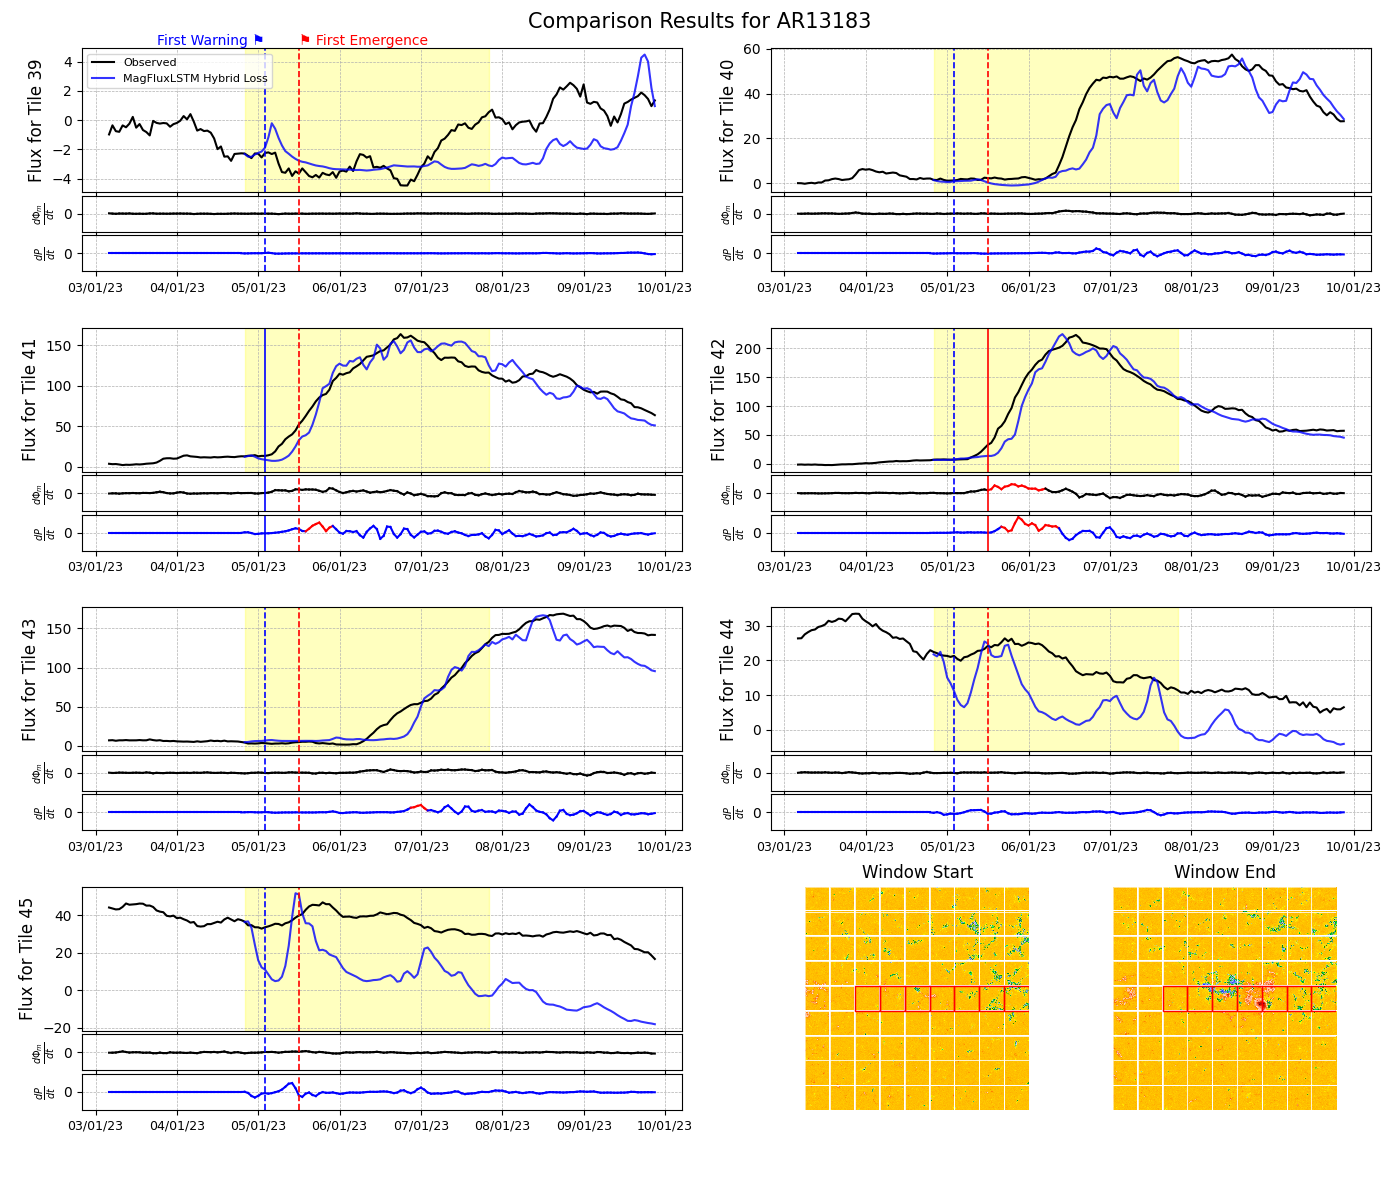
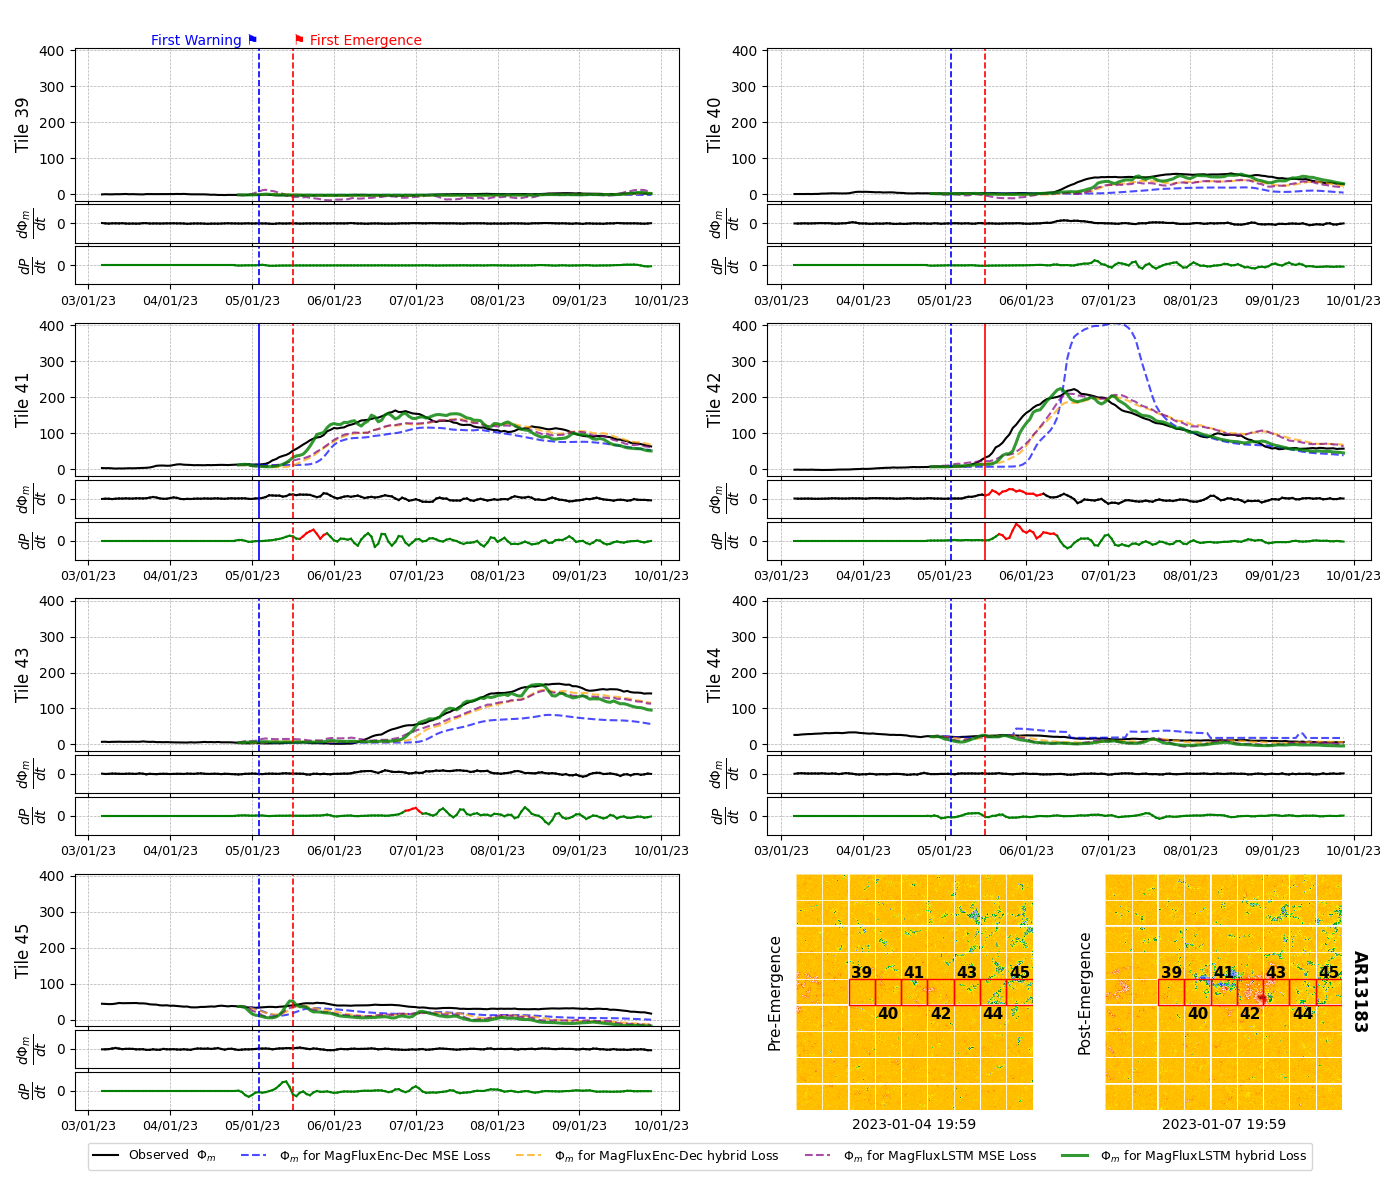
end

Changed region(s): [[0.0, 0.0, 0.9829, 0.9867]]

diff --git a/lstm/test_models_denormalized.py b/lstm/test_models_denormalized.py
@@ -15,7 +15,7 @@ from functions import (
 from functions import VanillaLSTM
 from functions import LSTM
 
-import matplotlib.patches as patches 
+import matplotlib.patches as patches
 import matplotlib.image as mpimg
 import matplotlib.dates as mdates
 import matplotlib.pyplot as plt
@@ -197,9 +197,7 @@ def eval_AR_emergence_with_plots(
                 - future : last_known_idx - p_params["num_pred"] - future,
             ]
 
-            d_true = np.gradient(
-                np.concatenate((mag_before_pred, true_p))
-            )
+            d_true = np.gradient(np.concatenate((mag_before_pred, true_p)))
             indicator_true = emergence_indication(d_true, threshold, sust_time)
 
             for idx, indic in enumerate(indicator_true):
@@ -225,7 +223,9 @@ def eval_AR_emergence_with_plots(
                     break
         print(firstTimePred)
         firstTimePred -= 12
-
+        maxObserved = -float("inf")
+        minObserved = float("inf")
+        axArray = []
         # --- 2. PLOTTING LOOP ---
         for i in range(7):
             print()
@@ -292,9 +292,11 @@ def eval_AR_emergence_with_plots(
                 time_cut_mpl,
                 true_plot,
                 color="black",
-                label="Observed",
+                label="Observed  $\Phi_m$",
                 linewidth=1.5,
             )
+            maxObserved = max(maxObserved, np.max(true_plot))
+            minObserved = min(minObserved, np.min(true_plot))
 
             # Overlay Predictions
             colors = ["blue", "orange", "purple", "green"]
@@ -334,25 +336,27 @@ def eval_AR_emergence_with_plots(
                     pad = np.full((len(time_cut_mpl) - len(plot_data),), np.nan)
                     plot_data = np.concatenate((plot_data, pad))
 
+                maxObserved = max(np.max(pred_recal_denorm), maxObserved)
+                minObserved = min(np.min(pred_recal_denorm), minObserved)
                 ax0.plot(
                     time_cut_mpl,
                     plot_data,
                     color=colors[m_idx % len(colors)],
-                    label=m_data["graphName"],  # Simple label
+                    label=" $\Phi_m$ for " + m_data["graphName"],  # Simple label
                     linestyle="-" if m_idx == len(loaded_models) - 1 else "--",
-                    alpha=0.8 if m_idx == len(loaded_models) - 1 else 0.3,
+                    alpha=0.8 if m_idx == len(loaded_models) - 1 else 0.7,
+                    linewidth=2.2 if m_idx == len(loaded_models) - 1 else 1.5,
                 )
-
-            # Formatting
-            ax0.axvspan(
-                time_cut_mpl[window_start],
-                time_cut_mpl[window_end],
-                color="yellow",
-                alpha=0.25,
+            # Metrics (Primary)
+            metrics = calculate_metrics(
+                true_plot[len(nan_array):],
+                pred_recal_denorm,
             )
-            if i == 0:
-                ax0.legend(loc="upper left", fontsize=8)
-            ax0.set_ylabel(f"Flux for Tile {starting_tile + i + 2}", fontsize=12)
+            all_metrics.append(metrics)
+            print(f"RMSE (Primary): {metrics[2]}")
+            # Formatting
+            ax0.set_ylabel(f"Tile {starting_tile + i + 2}", fontsize=12)
+            ax0.set_ylim([minObserved, maxObserved])
             ax0.grid(True, which="both", axis="both", linestyle="--", linewidth=0.5)
             ax0.tick_params(axis="x", which="both", labelbottom=False)
             ax0.xaxis_date()
@@ -373,31 +377,30 @@ def eval_AR_emergence_with_plots(
                 linewidth=1.2,
             )
 
-            if i == 0:
-                ax0.text(
-                    x_time_pred,
-                    ax0.get_ylim()[1],
-                    "First Warning ⚑",
-                    color="blue",
-                    fontsize=10,
-                    ha="right",
-                    va="bottom",
-                )
-                ax0.text(
-                    x_time_true,
-                    ax0.get_ylim()[1],
-                    "⚑ First Emergence",
-                    color="red",
-                    fontsize=10,
-                    ha="left",
-                    va="bottom",
-                )
+            # if i == 0:
+            #     ax0.text(
+            #         x_time_pred,
+            #         ax0.get_ylim()[1],
+            #         "First Warning ⚑",
+            #         color="blue",
+            #         fontsize=10,
+            #         ha="right",
+            #         va="bottom",
+            #     )
+            #     ax0.text(
+            #         x_time_true,
+            #         ax0.get_ylim()[1],
+            #         "⚑ First Emergence",
+            #         color="red",
+            #         fontsize=10,
+            #         ha="left",
+            #         va="bottom",
+            #     )
+            axArray.append(ax0)
 
             # --- AX1: dObs/dt ---
             ax1 = plt.subplot(gs[1])
-            d_true = np.gradient(
-                np.concatenate((mag_before_pred, true))
-            )
+            d_true = np.gradient(np.concatenate((mag_before_pred, true)))
             indicator_true = emergence_indication(d_true, threshold, sust_time)
 
             first = True
@@ -419,7 +422,7 @@ def eval_AR_emergence_with_plots(
             ax1.set_ylim([-0.05, 0.05])
             ax1.set_yticks([0])
             ax1.grid(True, linestyle="--", linewidth=0.5)
-            ax1.set_ylabel(r"$\frac{d\Phi_m}{dt}$")
+            ax1.set_ylabel(r"$\frac{d \Phi_m}{dt}$", fontsize=14)
             ax1.axvline(
                 x=x_time_pred,
                 color="blue",
@@ -498,7 +501,7 @@ def eval_AR_emergence_with_plots(
                 ax_pred.set_ylim([-0.05, 0.05])
                 ax_pred.set_yticks([0])
                 ax_pred.grid(True, linestyle="--", linewidth=0.5)
-                ax_pred.set_ylabel(r"$\frac{d P}{dt}$ ")
+                ax_pred.set_ylabel(r"$\frac{d P}{dt}$", fontsize=14)
                 ax_pred.axvline(
                     x=x_time_true,
                     color="red",
@@ -512,13 +515,7 @@ def eval_AR_emergence_with_plots(
                     linewidth=1.2,
                 )
 
-            # Metrics (Primary)
-            metrics = calculate_metrics(
-                true_plot[window_start:window_end],
-                plot_data[window_start:window_end],
-            )
-            all_metrics.append(metrics)
-            print(f"RMSE (Primary): {metrics[2]}")
+            
 
             # Table (Primary)
             to_append = f"Tile {starting_tile + i + 1} \n"
@@ -537,7 +534,28 @@ def eval_AR_emergence_with_plots(
                     to_append += "N/A"
             AR_emergences.append(to_append)
 
-        # Table data cleanup
+        for ax in axArray:
+            ax.set_ylim([minObserved, maxObserved])
+        ax0 = axArray[0]
+        leftAligned = x_time_pred < x_time_true
+        ax0.text(
+            x_time_pred,
+            ax0.get_ylim()[1],
+            "First Warning ⚑",
+            color="blue",
+            fontsize=10,
+            ha="right" if leftAligned else "left",
+            va="bottom",
+        )
+        ax0.text(
+            x_time_true,
+            ax0.get_ylim()[1],
+            "⚑ First Emergence",
+            color="red",
+            fontsize=10,
+            ha="left" if leftAligned else "right",
+            va="bottom",
+        )
         diff_final = mdates.num2date(x_time_true) - mdates.num2date(x_time_pred)
         hours_final = (diff_final.days * 24 * 60 + (diff_final.seconds / 60)) // 60
         AR_pred.append(hours_final)
@@ -554,8 +572,18 @@ def eval_AR_emergence_with_plots(
         try:
             img1 = mpimg.imread(f"lstm/imgs/AR{test_AR}s.png")
             img2 = mpimg.imread(f"lstm/imgs/AR{test_AR}e.png")
-            for ax, img, title in zip(
-                [ax_image1, ax_image2], [img1, img2], ["Window Start", "Window End"]
+            # Get timestamps for window start and end
+            start_time = mdates.num2date(time_cut_mpl[window_start]).strftime(
+                "%Y-%m-%d %H:%M"
+            )
+            end_time = mdates.num2date(time_cut_mpl[window_end]).strftime(
+                "%Y-%m-%d %H:%M"
+            )
+            for ax, img, title, is_start in zip(
+                [ax_image1, ax_image2],
+                [img1, img2],
+                [start_time, end_time],
+                [True, False],
             ):
                 ax.imshow(
                     img,
@@ -566,6 +594,7 @@ def eval_AR_emergence_with_plots(
                 )
 
                 # --- draw 9x9 tile grid (1x1 squares from 0..9 in x and y) ---
+                tile_num = starting_tile + i + 2
                 for ix in range(9):  # columns
                     for iy in range(9):  # rows
                         rect = patches.Rectangle(
@@ -579,7 +608,49 @@ def eval_AR_emergence_with_plots(
                         )
                         ax.add_patch(rect)
 
-                ax.set_title(title, fontsize=12)
+                # Place time at bottom of image
+                ax.text(
+                    4.5, -0.3, title, ha="center", va="top", fontsize=10, color="black"
+                )
+
+                # Place AR number vertically on left side of start image
+                if is_start:
+                    # Add "pre-emergence" label to left of first image
+                    ax.text(
+                        -0.5,
+                        4.5,
+                        "Pre-Emergence",
+                        ha="right",
+                        va="center",
+                        fontsize=11,
+                        color="black",
+                        rotation=90,
+                    )
+                else:
+                    # Add "post-emergence" label to left of second image
+                    ax.text(
+                        -0.5,
+                        4.5,
+                        "Post-Emergence",
+                        ha="right",
+                        va="center",
+                        fontsize=11,
+                        color="black",
+                        rotation=90
+                    )
+                    # Add time text to right of second image
+                    ax.text(
+                        9.3,
+                        4.5,
+                        f"AR{test_AR}",
+                        ha="left",
+                        va="center",
+                        fontsize=12,
+                        rotation=-90,
+                        color="black",
+                        weight="bold",
+                    )
+
                 ax.axis("off")
                 for tile_num in range(starting_tile, starting_tile + 7):
                     highlight_tile(ax, tile_num + 2)
@@ -595,14 +666,18 @@ def eval_AR_emergence_with_plots(
             round(means[4], 3),
         )
         print(mae_string)
-
+        # Add figure-level legend at the bottom
+        handles, labels = ax0.get_legend_handles_labels()
+        fig.legend(
+            handles,
+            labels,
+            loc="lower center",
+            bbox_to_anchor=(0.5, 0.02),
+            ncol=5,
+            fontsize=9,
+        )
         plt.tight_layout()
         plt.subplots_adjust(top=0.96, bottom=0.075)
-        plt.suptitle(
-            "Comparison Results for AR{}".format(test_AR),
-            y=0.99,
-            fontsize=15
-        )
 
         save_path = RESULTS_PATH + "/AR{}_comparison_denormalized.png".format(test_AR)
         plt.savefig(save_path)
@@ -629,11 +704,11 @@ if __name__ == "__main__":
     # Format: ("Vanilla" or "Regular", "filename.pth")
     models_to_compare = [
         (
-            "MagFluxSeq2Seq MSE Loss",
+            "MagFluxEnc-Dec MSE Loss",
             "../models/LSTM12_r4_i110_n4_h32_e8_lr0.00170074_d0.3.pth",
         ),
         (
-            "MagFluxSeq2Seq Hybrid Loss",
+            "MagFluxEnc-Dec hybrid Loss",
             "../models/LSTM12_r4_i110_n4_h64_e10_lr0.00972080_d0.2.pth",
         ),
         (
@@ -641,7 +716,7 @@ if __name__ == "__main__":
             "../models/VanillaLSTM12_r4_i110_n1_h64_e10_lr0.00232000_d0.2.pth",
         ),
         (
-            "MagFluxLSTM Hybrid Loss",
+            "MagFluxLSTM hybrid Loss",
             "../models/VanillaLSTM12_r4_i110_n4_h128_e8_lr0.00700000_d0.1.pth",
         ),
     ]

diff --git a/lstm/functions.py b/lstm/functions.py
@@ -262,6 +262,11 @@ def highlight_tile(ax, tile_number, divisions=9, color="r", linewidth=1):
     )
     ax.add_patch(rect)
 
+    # Add tile number alternating between top and bottom
+    text_y = y + 1.2 if (x + y) % 2 == 0 else y + -0.35
+    ax.text(x + 0.5, text_y, str(tile_number), ha='center', va='center', 
+            fontsize=11, color='black', weight='bold', zorder=2)
+
 
 def load_ar_data(ar_num, size, rid_of_top, starting_tile):
     """Loads and preprocesses data for a single Active Region (AR)."""
@@ -352,7 +357,7 @@ def AR_defs(val_AR):
     start = 0
     if val_AR == 11698:
         window_s = 74
-        starting_tile = 46
+        starting_tile = 45
         before_plot = 50
         num_in = 96
         NOAA_first = datetime(2013, 3, 15, 0, 0, 0)
